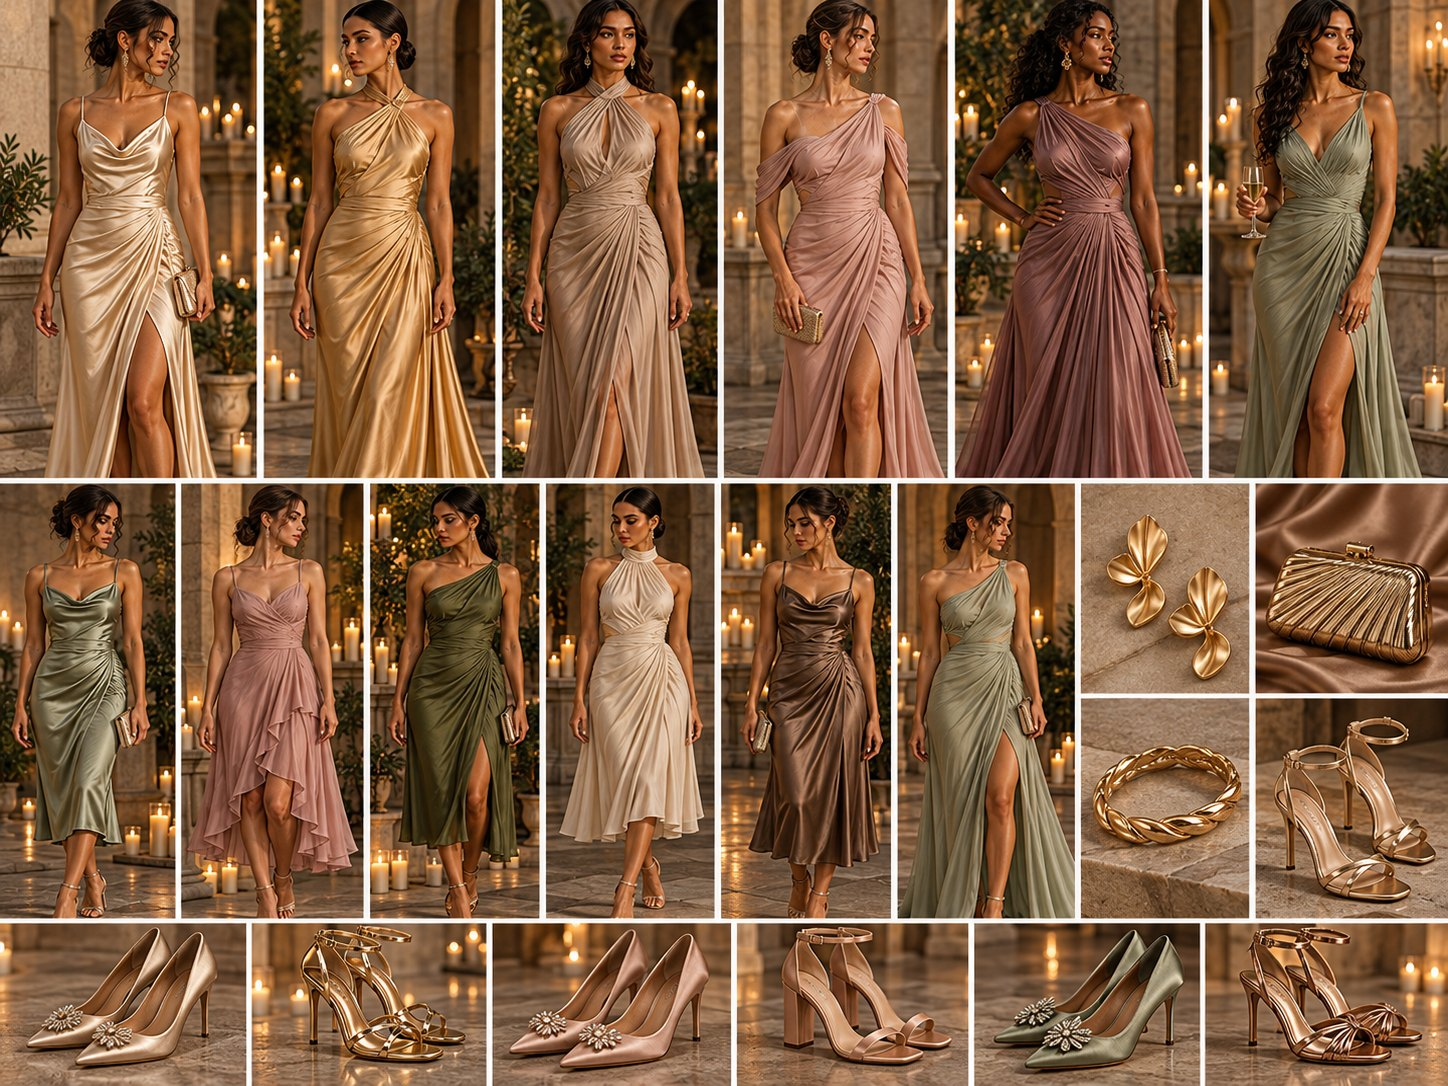
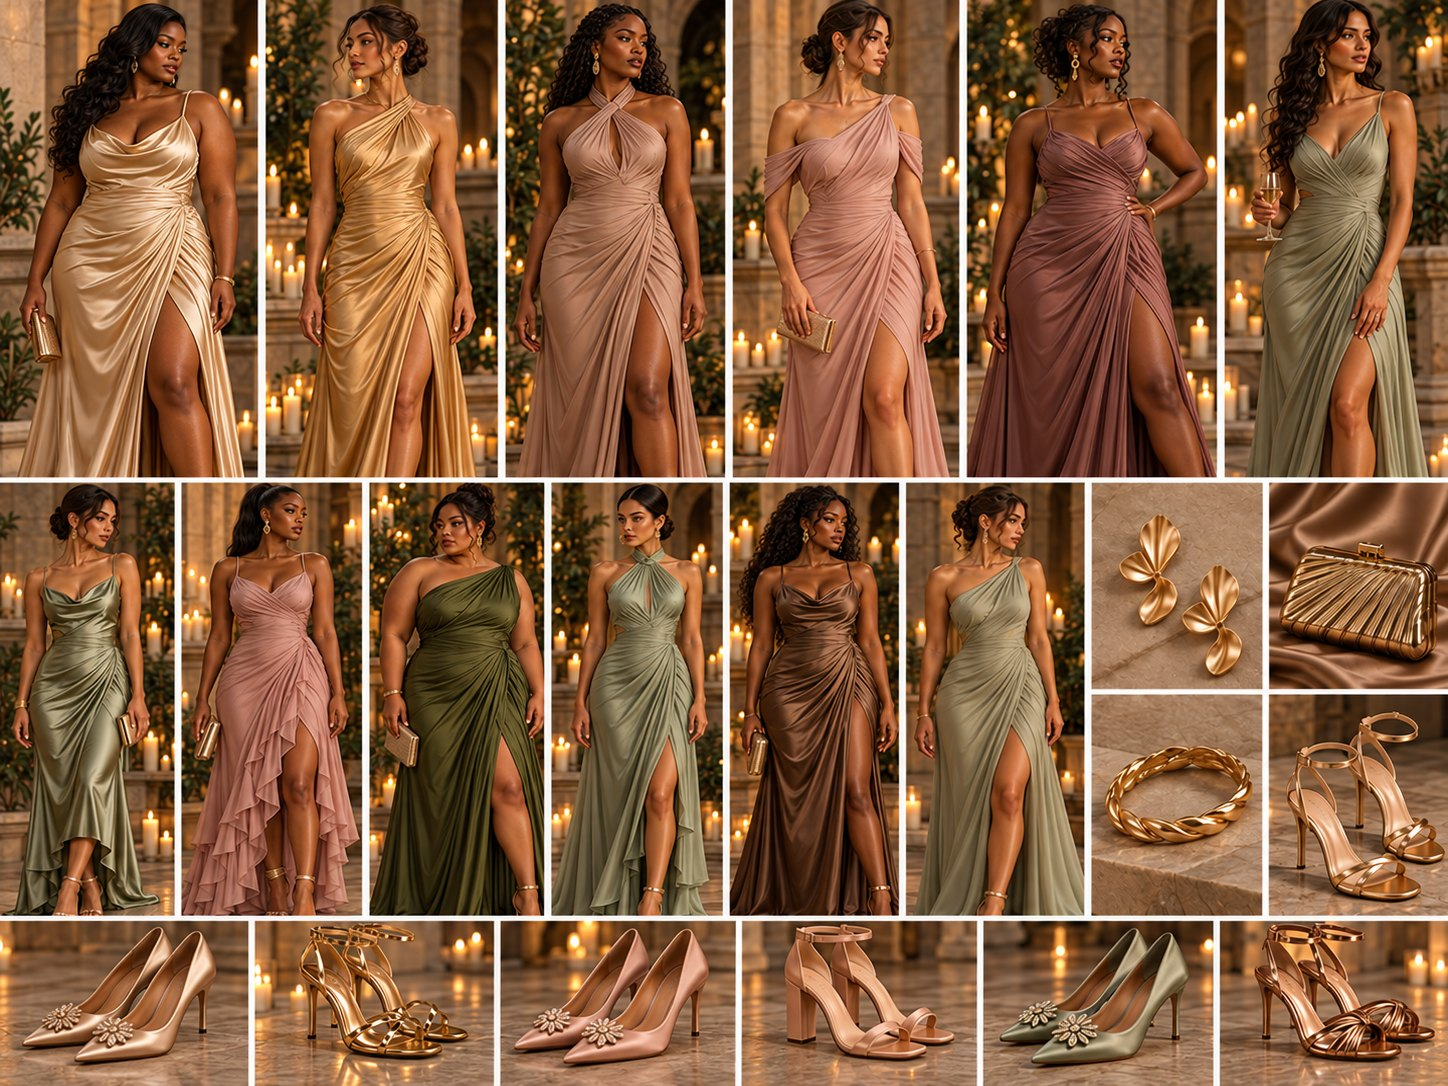
Use updated women's lookbook collage
Claude-Session: https://claude.ai/code/session_01D4SG45uqWaoyf4H3SHajjc

diff --git a/index.html b/index.html
@@ -393,7 +393,7 @@ img{max-width:100%;display:block}
             <div class="lb-r"><dt>Shoe Direction</dt><dd>Sculptural heels, metallic sandals, satin pumps, elegant block heels, and formal flats.</dd></div>
             <div class="lb-r"><dt>Accessories</dt><dd>Jewelry, clutches, and expressive details are encouraged.</dd></div>
           </dl>
-          <div class="lb-img"><img src="images/12_lookbook_women.jpg" alt="Women&rsquo;s inspiration: draped floor-length gowns and elevated midis in champagne, soft gold, taupe, blush, mauve, sage, olive, and bronze, with gold jewelry, a gold clutch, and formal heels" loading="lazy" width="1448" height="1086"></div>
+          <div class="lb-img"><img src="images/12_lookbook_women.jpg" alt="Women&rsquo;s inspiration: draped floor-length gowns in champagne, soft gold, taupe, blush, mauve, sage, olive, and bronze, with gold jewelry, a gold clutch, and formal heels" loading="lazy" width="1448" height="1086"></div>
         </div>
         <div class="lb-sw" aria-label="Women&rsquo;s palette">
           <div><i style="background:#E4D2B6"></i>Champagne</div>
